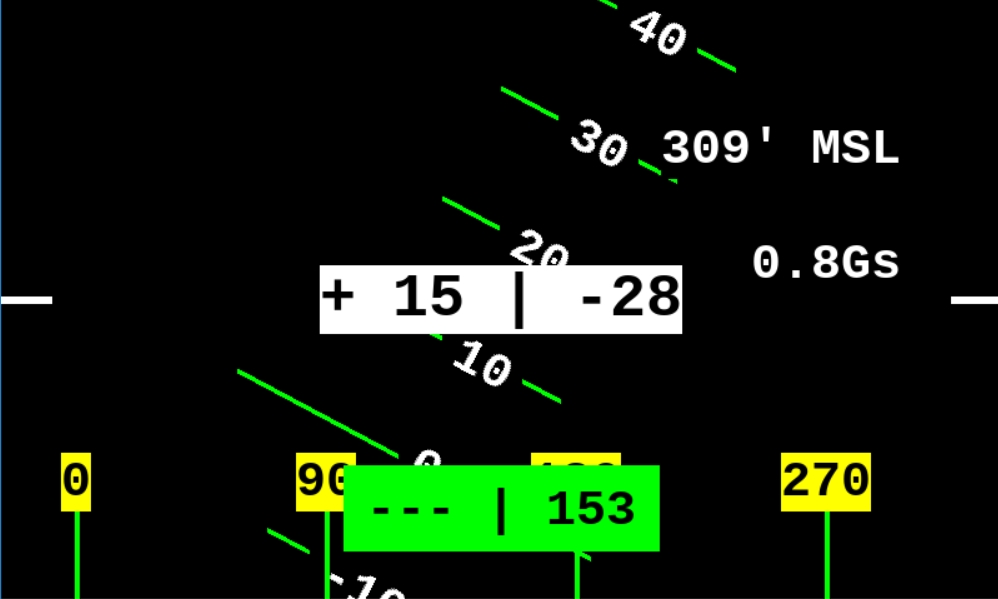
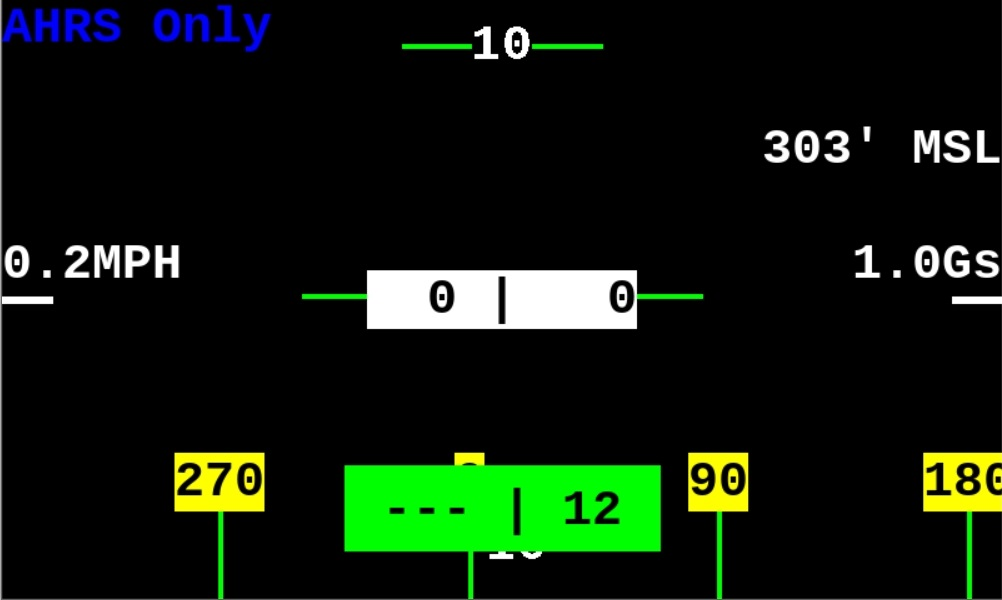
Update documentation to reflect changes in 1.3

diff --git a/readme.md b/readme.md
@@ -65,76 +65,66 @@ You may use a number pad as input device. I used velcro to secure the number pad
 - (Blank)
 - AHRS Only
 
-### Traffic View
+### AHRS + ADS-B View
 
-#### TRAFFIC EXAMPLE
+![Traffic View Screenshot](media/ahrs_plus_adsb_view.jpg)
+
+This view shows attitude information along with targetting bugs that show the relative position and distance of traffic.
+
+In this example:
+
+- There are five potential targets, all at a higher altitude. Three are relatively far away. The one directly behind us (far right hand side) is the closest.
+- One of the five targets is within our field of view and has a targetting reticle.
+- With are at a level pitch and roll.
+- We are 309 feet MSL.
+- We are traveling forward a 0.4MPH (taxing)
+- We have a GPS heading of 12, but do not have enough forward speed to obtain a heading from the AHRS chip. If the AHRS chip is unable to produce a reliable heading, `---` is shown for that portion of the heading.
+
+*NOTE:* This is the default view on startup. If you would like to switch to the `AHRS Only` You may press `-` on the keypad.
+
+### Traffic View
 
 ![Traffic View Screenshot](media/traffic_view.jpg)
 
-We are receiving ADS-B from three planes.
-N705JA is right ahead of us, bearing 90. We have a GPS track of 112 degrees.
-N705JA is 1.1 statute miles ahead, and 2,200 feet above.
-We have a large red target reticle that shows where N705JA actually is outside the cockpit.
+This view shows a heading strip, target bugs, targetting reticles, and "information cards" about our potential traffic.
 
-Delta Airlines flight 39 is also ahead of us, and slightly to the right.
-It is further away, so the red reticle is smaller.
-
-Note tha a red triangle points from the information card to the heading strip where the traffic is.
-
-The closer the traffic, the larger the heading bug.
-
-#### Traffic View Explanation
-
-This shows you all of the traffic with reliable ADSB data.
-
-_NOTE: Any planes further than 10SM are excluded from this view._
-
-It attempts to prioritize traffic by distance.
-
-At the bottom is a heading strip. It shows you in text with a green background your GPS track and your gyro based direction. Combined they will give you an idea of any crab being maintained.
-
-To the left and right are the headings 180 degrees from center.
-
-Drawn above the heading strip are red "bugs". The larger the heading bug, the closer the traffic is.
-
-Right above each bug is a yellow "card" that shows you information about that traffic.
-
-At the top is the Tail Number, and if that is not available, a unique identifier that is broadcast.
-The next line is the bearing to the traffic.
-Below that is the distance to the target.
-Finally, the bottom line is the relative altitude in hundreds of feet. (+2 would be 200' above you.)
-
-Cards are drawn so the furthest traffic is "at the bottom of the stack". This prioritizes the closest traffic to have all content readable.
-
-### AHRS View
-
-#### AHRS VIEW EXAMPLE
-
-![Traffic View Screenshot](media/ahrs_view.jpg)
-
-We have a GPS track of 153 degrees.
-We are in a 28 degree turn to the left.
-We are 15 degrees nose up.
-Our GPS altitude is 309'
-We are experiencing 0.8Gs, less than normal gravity.
+In this example, `N2803K` is almost directly ahead of us (middle of the screen).
+The plane is 1.5 statute miles away, with a bearing of 51 degrees. We are currently on a heading of 012 degrees. The traffic is 500 feet above us.
 
 ### Traffic Listing View
 
-### TRAFFIC LISTING VIEW EXAMPLE
-
 ![Traffic View Screenshot](media/traffic_listing_view.jpg)
 
-This shows us _at most_ the five closest planes.
+This shows us _at most_ the eight closest planes.
 
-_NOTE: Any planes further than 10SM are excluded from this view._
+The *IDENT(ifier will be the tail number when available, otherwise the IACO identifier or callsign may be used.
+The *BEAR*ing is the heading to take to fly to that target.
+The *DIST*ance is the distance to the target.
+The *ALT*itude is given in relative terms, with two digits dropped.
 
-Here we see N435SP is the closest plane, bearing 345, 1.0 statute miles away, and 1,300' above us.
+In this example, the closest target is QXE2382. We may see that plane if we looked out the cockpit at a heading of 276. The plane is only 1 statue mile away, and 11,200 feet above us.
 
-N705JA is the second closest plane. It is Bearing 78, 1.2 statues miles away and 2,300 feet above us.
+### Diagnostics View
+
+![Traffic View Screenshot](media/diagnostics_view.jpg)
+
+The diagnostics view is designed to help give some troubleshooting ability.
+If a value is set for "OWNSHIP" (See the configuration file section), then any report from that tailnumber is ignored.
+The IP addressis provided so you may use the configuration webpage if you set it up.
+
+### Universal Time
+
+Shows the current time in UTC at the bottom of the screen.
 
 ### Blank
 
 A blank screen so no information is displayed.
+
+### AHRS View
+
+![Traffic View Screenshot](media/ahrs_view.jpg)
+
+This is a similar view to `AHRS + ADS-B`, but removes any AHRS information.
 
 ## Parts List
 
@@ -237,7 +227,16 @@ Make sure you are using a high quality power cable if you are using a Pi 3B+
 
 ## Appendix
 
-Teleprompter sample: <https://telepromptermirror.com/sample/>
+### Hardware Performance
+
+| Board                          | Screen         | Frames Per Second |
+| ------------------------------ | -------------- | ----------------- |
+| Rasp Pi 2                      | Sun Founder 5" | ~25FPS to ~30FPS  |
+| Rasp Pi 3 (stand alone)        | HUDLY          | 60FPS             |
+| Rasp Pi 3 (Running on Stratux) | HUDLY          | 60FPS             |
+| Rasp Pi 3B+                    | HUDLY          | 60FPS             |
+
+Please note that the frame rate is capped at 60FPS. Drawing any faster will not be detectable using the reccomended output systems. Reducing the framerate will reduce the powerdraw.
 
 ## Acknowledgements And Credits
 
